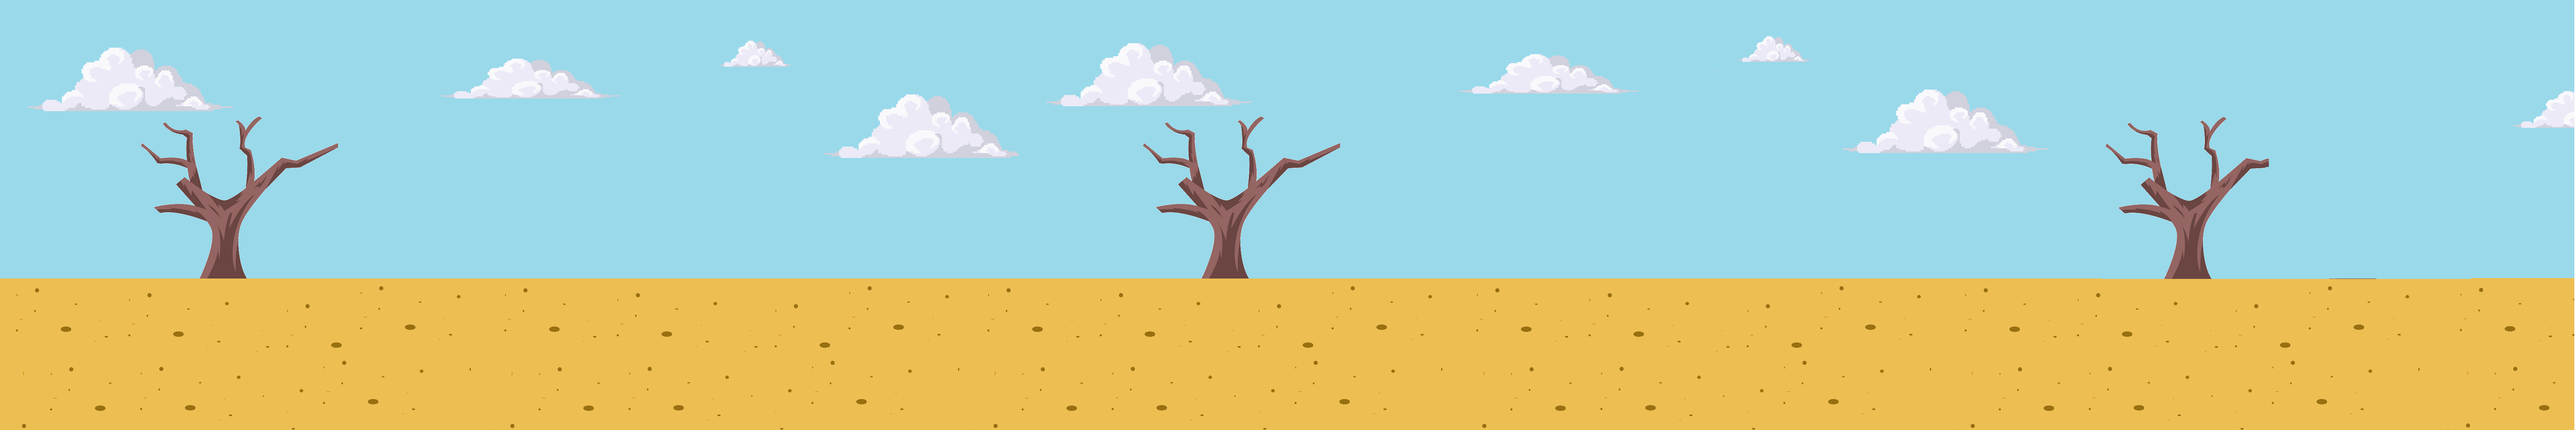
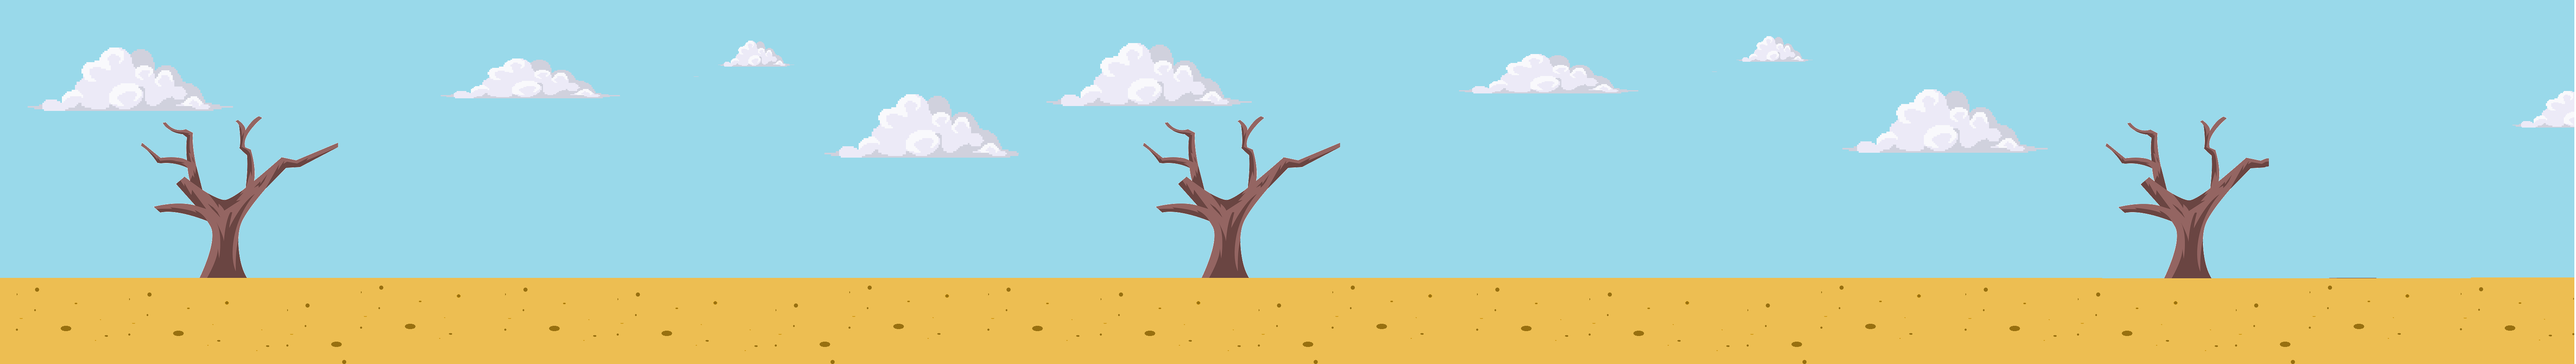
render only portions of the background that is on screen

diff --git a/src/Framework/Game.java b/src/Framework/Game.java
@@ -56,6 +56,7 @@ public class Game extends Canvas implements Runnable {
     public static final double OVERVIEW_MODE_ZOOM = .25;
     protected static double resolutionScaleX = 1, resolutionScaleY = 1;
     /*  FIELDS   */
+    public boolean alwaysRenderFullBackground = false;
     public volatile boolean shouldShowFPS = true;
     private double zoom = 1;
     protected int windowWidth = Toolkit.getDefaultToolkit().getScreenSize().width;     //width of window holding this world canvas object 
@@ -490,7 +491,26 @@ public class Game extends Canvas implements Runnable {
                 return;
             }
             if(!Main.debugMode || pathingLayer==null){
-                g.drawImage(backgroundImage.getCurrentImage(), 0, 0, null);
+                BufferedImage bufferedImage = backgroundImage.getCurrentImage();
+                if(!alwaysRenderFullBackground  && bufferedImage.getHeight() * bufferedImage.getWidth() > 2560*1440) {
+                    // large image only render whats on screen
+                    g.drawRect(0, 0, bufferedImage.getWidth(), bufferedImage.getHeight());
+                    g.drawImage(
+                            bufferedImage,
+                            -getCamera().getPixelLocation().x,
+                            -getCamera().getPixelLocation().y,
+                            -getCamera().getPixelLocation().x + getCamera().getFieldOfView().width,
+                            -getCamera().getPixelLocation().y + getCamera().getFieldOfView().height,
+                            -getCamera().getPixelLocation().x,
+                            -getCamera().getPixelLocation().y,
+                            -getCamera().getPixelLocation().x + getCamera().getFieldOfView().width,
+                            -getCamera().getPixelLocation().y + getCamera().getFieldOfView().height,
+                            null                            
+                    );
+                } else {
+                    // small backgrounds just render the whole thing
+                   g.drawImage(bufferedImage, 0, 0, null);
+                }
             }else if(pathingLayer!=null && pathingLayer.getSource()!=null){
                 pathingLayer.internalizeSource();
                 g.drawImage(pathingLayer.getSource(), 0, 0, null); //if in debug view, display pathing map

diff --git a/src/SampleGames/SideScroller/Actors/SSActor.java b/src/SampleGames/SideScroller/Actors/SSActor.java
@@ -8,9 +8,11 @@ package SampleGames.SideScroller.Actors;
 import Framework.Coordinate;
 import Framework.DCoordinate;
 import Framework.GameObject2;
+import Framework.Hitbox;
 import Framework.PathingLayer.Type;
 import SampleGames.SideScroller.DamageNumber;
 import SampleGames.SideScroller.MinotaurGame;
+import SampleGames.SideScroller.Terrain.Terrain;
 
 /**
  *
@@ -122,7 +124,24 @@ public abstract class SSActor extends GameObject2 {
     }
 
     public void jump(){
-        jumpTick=tickNumber;
+        if(isJumping()) return;
+        boolean canJump = false;
+        Coordinate[] jumpHitboxDims = {        
+            new Coordinate(getPixelLocation().x - getWidth()/2, getPixelLocation().y + getHeight()/2), // bot left of sprite
+            new Coordinate(getPixelLocation().x + getWidth()/2, getPixelLocation().y + getHeight()/2), // bot right of sprite     
+            new Coordinate(getPixelLocation().x - getWidth()/2, getPixelLocation().y + getHeight()/2 + 10), // extend 10px under sprite
+            new Coordinate(getPixelLocation().x + getWidth()/2, getPixelLocation().y + getHeight()/2 + 10),
+        };
+        Hitbox jumpHitbox = new Hitbox(jumpHitboxDims);
+        for(GameObject2 other : getHostGame().getObjectsIntersecting(jumpHitbox)) {
+            if(other != this && other.isSolid) {
+                canJump = true;
+                break;
+            }
+        }
+        if(canJump) {
+            jumpTick=tickNumber;
+        }
     }
     
     
